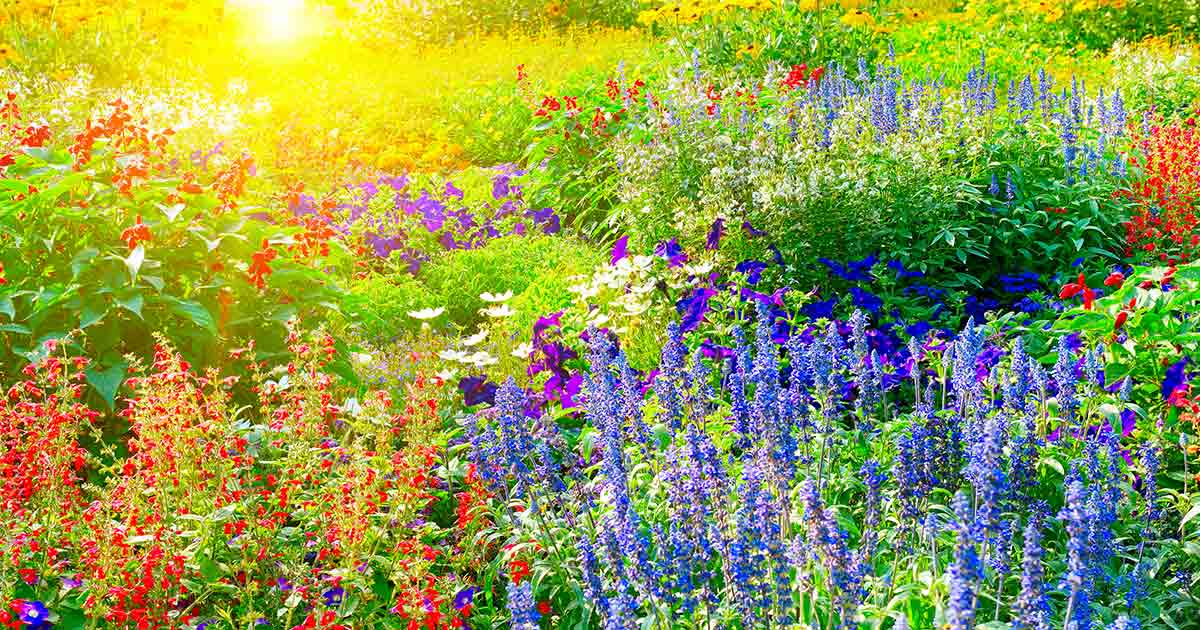
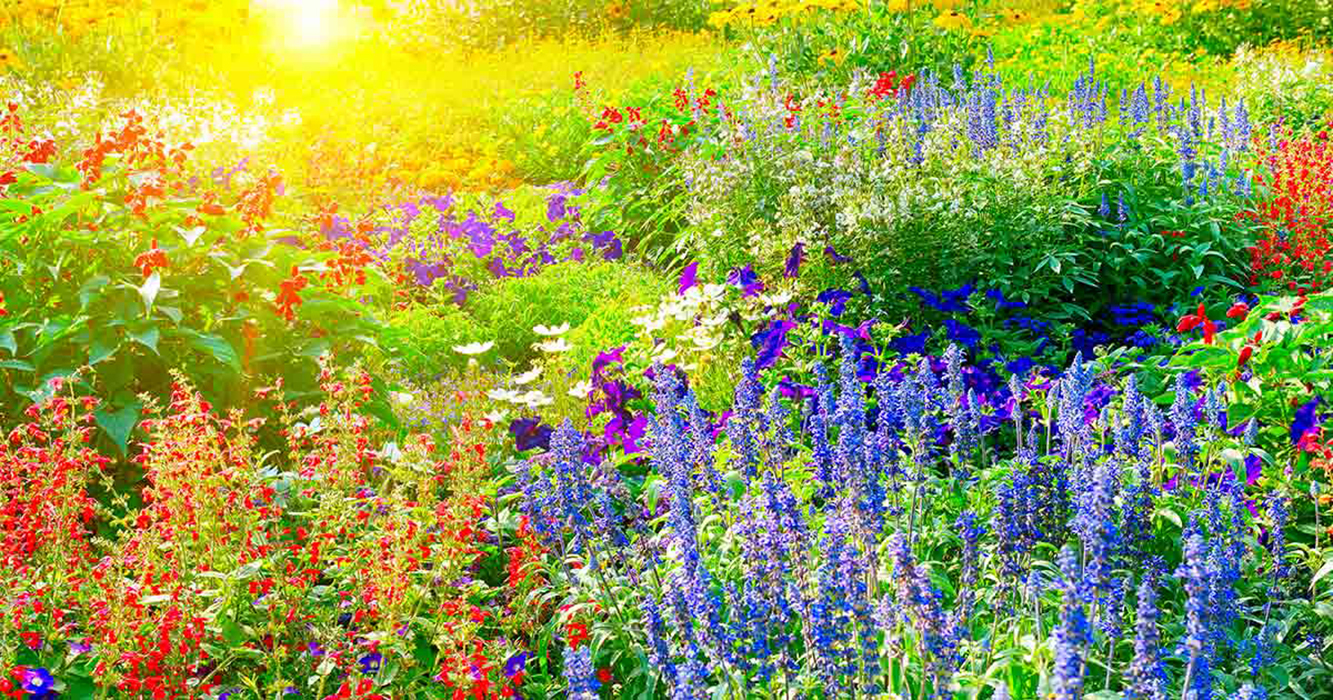
mp3.1done

diff --git a/p5/mp3.1/sketch.js b/p5/mp3.1/sketch.js
@@ -6,6 +6,7 @@ var bee;
 var bird;
 var birds = [];
 var splashscreen;
+var gamebackground;
 var song1;
 var winstate;
 var losestate;
@@ -31,7 +32,8 @@ function setup() {
   birds[5] = loadImage("assets/purple.png");
   birds[6] = loadImage("assets/red1.png");
 
-  splashscreen = loadImage("assets/Plants.jpg");
+  splashscreen = loadImage("assets/Flowersandbees.png");
+  gamebackground = loadImage("assets/Plants.jpg");
   winstate = loadImage("assets/garden.jpg");
   losestate = loadImage("assets/desertlosestate.jpg");
   // spawn the cars
@@ -60,8 +62,9 @@ function draw() {
 
     case 0:
       // play screen
-      image(splashscreen, 400, 400);
-      fill(52, 222, 235);
+      background("white");
+      image(splashscreen, 400, 300);
+      fill(0, 4, 255);
       textFont(myFont, 50);
       text('It is Spring! Help the bee', 80, 400);
       text('pollinate the flowers! Click to Play!', 80, 500);
@@ -181,7 +184,8 @@ function checkForKeys() {
 }
 
 function game() {
-  image(splashscreen, 400, 400);
+  background("white");
+  image(gamebackground, 400, 350);
 
   // ierate through the cars array
   for (var j = 0; j < cars.length; j++) {
